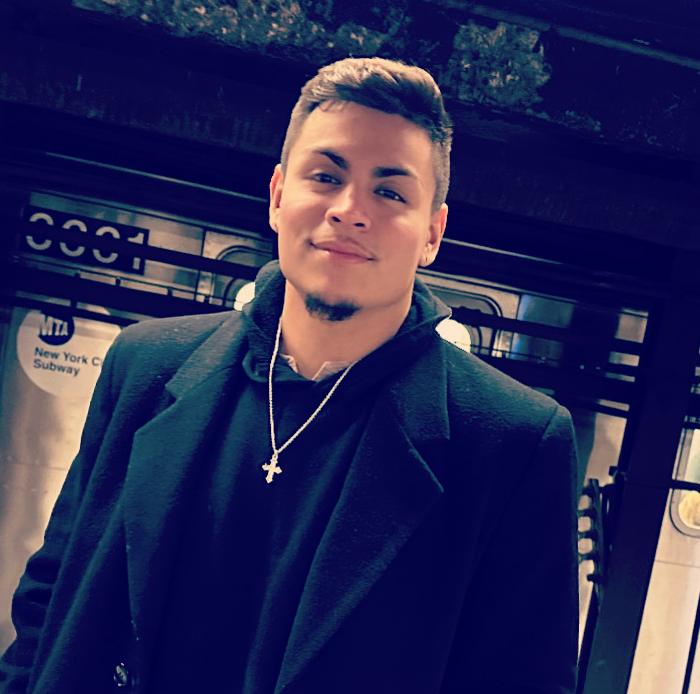
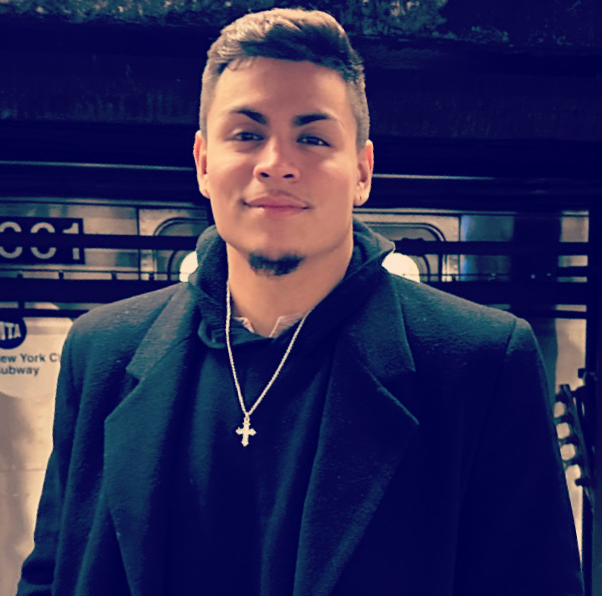
header complete. Working on about section

diff --git a/src/components/About.jsx b/src/components/About.jsx
@@ -2,7 +2,19 @@ import React from 'react'
 
 const About = () => {
   return (
-    <div></div>
+    <div>
+      <p id="about-text">
+      Hello, and welcome to my profile! My name is Fabien, and I am a software engineering enthusiast with a passion for innovation and problem-solving. I am excited to be entering the software engineering world and eager to contribute my skills and knowledge to create cutting-edge solutions that make a difference in people's lives.
+
+      From an early age, I have been fascinated by technology and how it can be used to improve people's lives. I have always been drawn to the challenge of solving complex problems and finding new ways to tackle them. As a software engineer, I am committed to developing and implementing creative solutions that are both efficient and effective.
+
+      I am a dedicated and hardworking individual with a strong foundation in computer science and programming principles. I have experience in [list any relevant skills or technologies], and I am always eager to learn more. I am a quick learner, and I thrive in fast-paced, dynamic environments where I can put my skills and creativity to the test.
+
+      But it's not just about the technical skills for me. I am also a team player and value collaboration and communication in the workplace. I believe that open communication and collaboration are key to delivering successful projects, and I am always looking for ways to improve my teamwork skills and help others succeed.
+
+      Overall, I am excited to be embarking on this journey into the software engineering world and am looking forward to the challenges and opportunities that lie ahead. I am confident in my abilities and committed to working hard to achieve my goals, and I believe that with the right mindset, dedication, and willingness to learn, I can make a meaningful impact in this field.
+      </p>
+    </div>
   )
 }
 

diff --git a/src/index.css b/src/index.css
@@ -1,57 +1,55 @@
+/* Global */
 * {
     margin: 0;
     padding: 0;
 }
 
-
+/* Header */
 header {
     position: relative;
 }
-
 #header {
     height: 100vh;
-    width: 25%;
-    min-width: 500px;
+    width: 15%;
+    min-width: 300px;
     position: fixed;
     left: 0;
     background-color: #010b75f7;
 }
-
 #avatar {
     position: absolute;
     top: 10px;
-    margin-top: 20px;
-    margin-left: 95px;
-    width: 290px;
+    margin-top: 35px;
+    margin-left:28px;
+    width: 240px;
     border-radius: 50%;
 }
-
 #role-title {
     position: absolute;
     top: 400px;
-    left: 112px;
+    left: 30px;
     color:white;
-    font-size: 25px;
+    font-size: 20px;
+    font-family: 'Raleway', sans-serif;
+    font-weight: 300;
 }
-
 #name-plate {
     position: absolute;
     top: 340px;
-    left: 125px;
+    left: 13px;
     color: white;
     font-size: 40px;
+    font-weight: 500;
+    font-family: 'Raleway', sans-serif;
 }
-
 #navbar {
     text-align: center;
     margin-top: 500px;
 }
-
 .anchor-item {
     text-decoration: none;
     color: white;
     font-size: 32px;
-    font-weight: bold;
     margin-top: 20px;
     list-style: none;
 }
@@ -60,10 +58,34 @@ header {
     margin-top: 30px;
     margin-bottom: 40px;
     transition: all 0.3s ease-in-out;
+    font-family: 'Raleway', sans-serif;
+    font-weight: 300;
 }
-
 .nav-item:hover {
     text-shadow: 0 0 10px white;
-    transform: translate(0, -2px);
-    font-size: 35px;
+    transform: translate(0, -3px);
   }
+#tIcon {
+    position: absolute;
+    margin-top: 40px;
+    margin-left: 50px;
+}
+#lIcon {
+    position: absolute;
+    margin-top: 40px;
+    margin-left: 125px;
+}
+#gIcon {
+    position: absolute;
+    margin-top: 40px;
+    margin-left: 200px;
+}
+/* Header */
+
+/* About */
+
+
+#about-text {
+    font-family: "Raleway", sans-serif;
+    width: 85%;
+}

diff --git a/src/components/Header.jsx b/src/components/Header.jsx
@@ -1,11 +1,9 @@
 import React from 'react'
 import image from '../images/reactatar.png';
-import background from '../images/background1.jpg';
+import tIcon from '../images/twitter.png';
+import lIcon from '../images/linkedin.png';
+import gIcon from '../images/github.png';
 
-const style = {
-  backgroundImage: `url(${background})`,
-  backgroundSize: 'cover',
-}
 
 const Header = () => {
   return (
@@ -19,6 +17,10 @@ const Header = () => {
           <li className="nav-item"><a className="anchor-item" href="/resume">Resume</a></li>
           <li className="nav-item"><a className="anchor-item" href="/contact">Contact</a></li>
       </nav>
+    <a href="https://twitter.com/CodeFabien" target="_blank"><img id="tIcon" src= { tIcon } alt="twitter icon" /></a>
+    <a href="https://www.linkedin.com/in/fabien-moreno/" target="_blank"><img id="lIcon" src= { lIcon } alt="linkedin icon" /></a>
+    <a href="https://github.com/fabien1313" target="_blank"><img id="gIcon" src= { gIcon } alt="linkedin icon" /></a>
+
     </header>
     
   )

diff --git a/index.html b/index.html
@@ -5,6 +5,9 @@
     <link rel="icon" type="image/svg+xml" href="/vite.svg" />
     <meta name="viewport" content="width=device-width, initial-scale=1.0" />
     <title>Code Fabien</title>
+    <link rel="preconnect" href="https://fonts.googleapis.com">
+    <link rel="preconnect" href="https://fonts.gstatic.com" crossorigin>
+    <link href="https://fonts.googleapis.com/css2?family=Raleway:wght@300;500&display=swap" rel="stylesheet">
     <style>
       body{
         background-image: url(/src/images/whitebackground.jpg);
